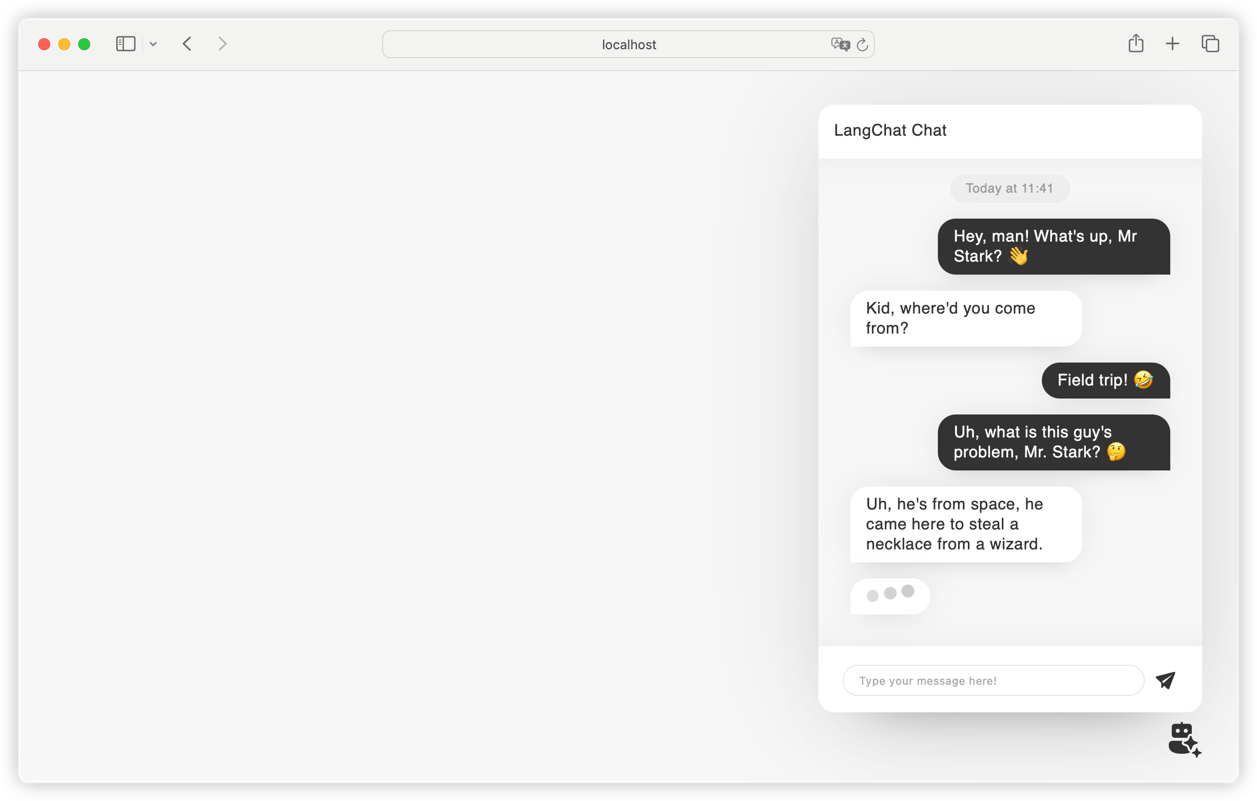
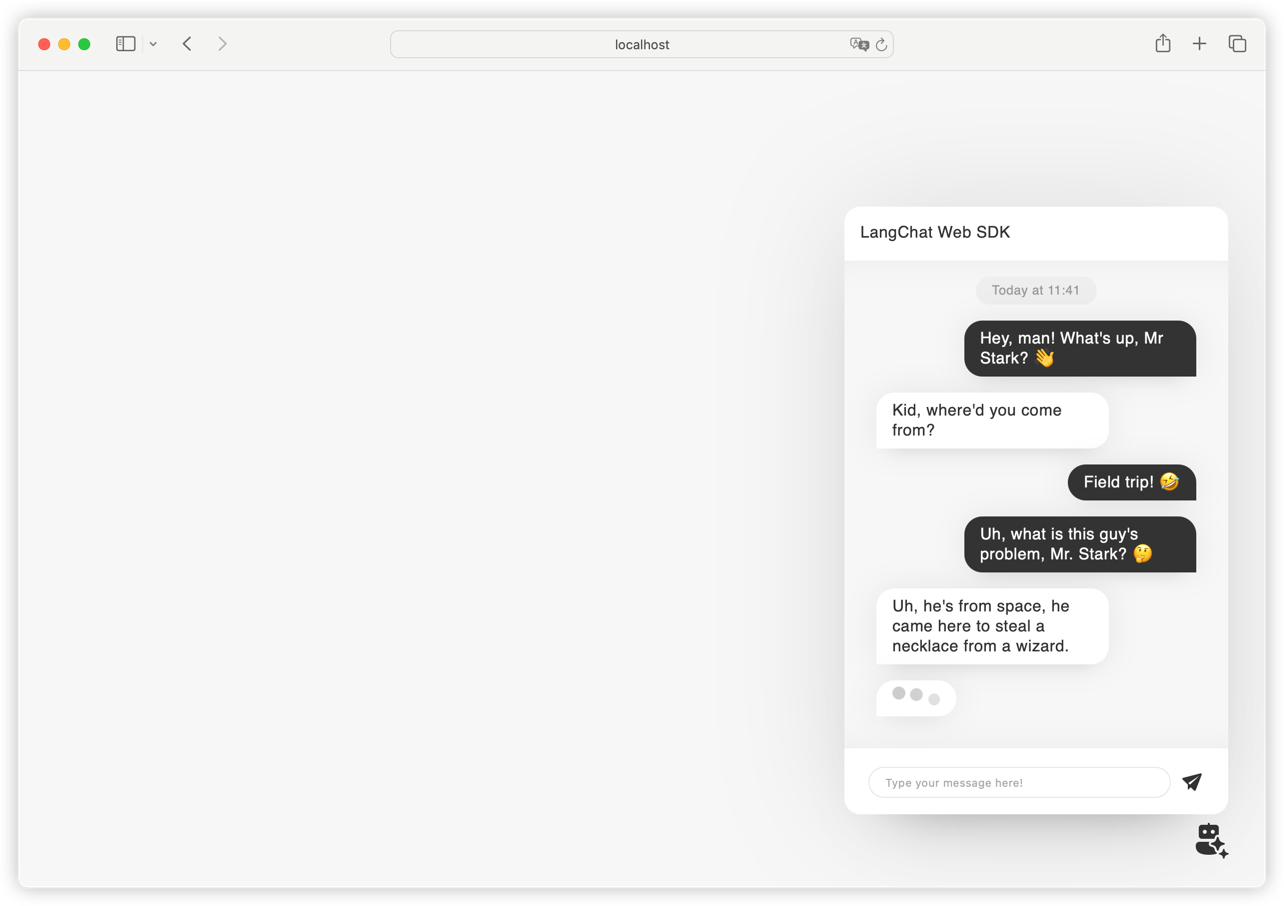
init

diff --git a/src/chat.html b/src/chat.html
@@ -10,7 +10,7 @@
     <div class="chat hidden" id="chat-box">
         <div class="contact bar">
             <div class="name">
-                LangChat Chat
+                LangChat Web SDK
             </div>
         </div>
         <div class="messages" id="chat">

diff --git a/README.md b/README.md
@@ -6,4 +6,4 @@
 
 ![img.png](docs/img.png)
 
-![img_1.png](docs/img_1.png)
+![img.png](docs/img_1.png)
